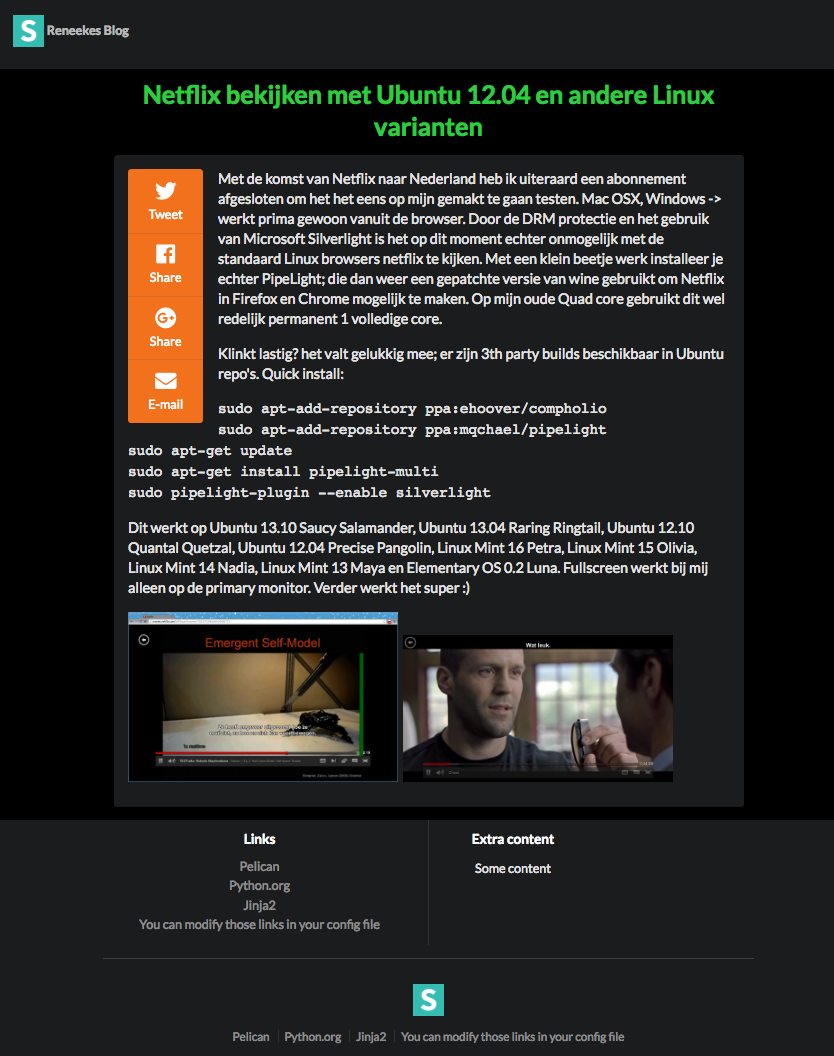
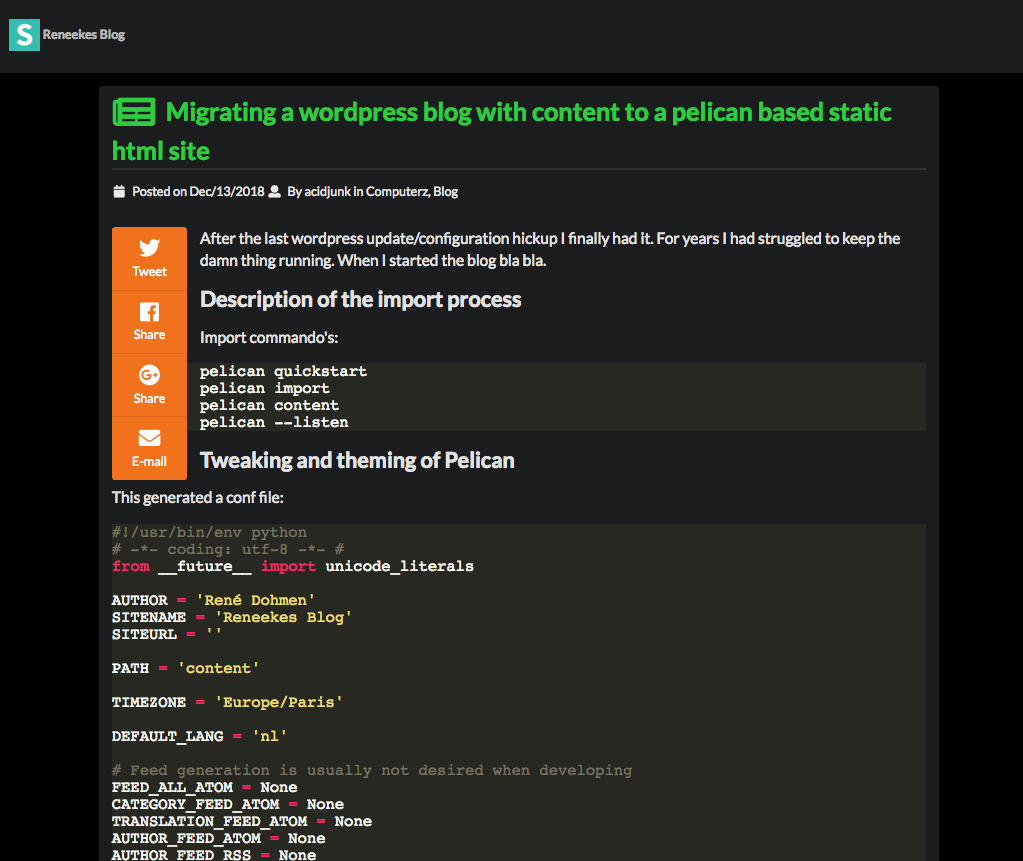
Updates

diff --git a/static/css/pygment.css b/static/css/pygment.css
@@ -1,0 +1,70 @@
+.highlight .hll { background-color: #49483e }
+.highlight  { background: #272822; color: #f8f8f2 }
+.highlight .c { color: #75715e } /* Comment */
+.highlight .err { color: #960050; background-color: #1e0010 } /* Error */
+.highlight .k { color: #66d9ef } /* Keyword */
+.highlight .l { color: #ae81ff } /* Literal */
+.highlight .n { color: #f8f8f2 } /* Name */
+.highlight .o { color: #f92672 } /* Operator */
+.highlight .p { color: #f8f8f2 } /* Punctuation */
+.highlight .ch { color: #75715e } /* Comment.Hashbang */
+.highlight .cm { color: #75715e } /* Comment.Multiline */
+.highlight .cp { color: #75715e } /* Comment.Preproc */
+.highlight .cpf { color: #75715e } /* Comment.PreprocFile */
+.highlight .c1 { color: #75715e } /* Comment.Single */
+.highlight .cs { color: #75715e } /* Comment.Special */
+.highlight .gd { color: #f92672 } /* Generic.Deleted */
+.highlight .ge { font-style: italic } /* Generic.Emph */
+.highlight .gi { color: #a6e22e } /* Generic.Inserted */
+.highlight .gs { font-weight: bold } /* Generic.Strong */
+.highlight .gu { color: #75715e } /* Generic.Subheading */
+.highlight .kc { color: #66d9ef } /* Keyword.Constant */
+.highlight .kd { color: #66d9ef } /* Keyword.Declaration */
+.highlight .kn { color: #f92672 } /* Keyword.Namespace */
+.highlight .kp { color: #66d9ef } /* Keyword.Pseudo */
+.highlight .kr { color: #66d9ef } /* Keyword.Reserved */
+.highlight .kt { color: #66d9ef } /* Keyword.Type */
+.highlight .ld { color: #e6db74 } /* Literal.Date */
+.highlight .m { color: #ae81ff } /* Literal.Number */
+.highlight .s { color: #e6db74 } /* Literal.String */
+.highlight .na { color: #a6e22e } /* Name.Attribute */
+.highlight .nb { color: #f8f8f2 } /* Name.Builtin */
+.highlight .nc { color: #a6e22e } /* Name.Class */
+.highlight .no { color: #66d9ef } /* Name.Constant */
+.highlight .nd { color: #a6e22e } /* Name.Decorator */
+.highlight .ni { color: #f8f8f2 } /* Name.Entity */
+.highlight .ne { color: #a6e22e } /* Name.Exception */
+.highlight .nf { color: #a6e22e } /* Name.Function */
+.highlight .nl { color: #f8f8f2 } /* Name.Label */
+.highlight .nn { color: #f8f8f2 } /* Name.Namespace */
+.highlight .nx { color: #a6e22e } /* Name.Other */
+.highlight .py { color: #f8f8f2 } /* Name.Property */
+.highlight .nt { color: #f92672 } /* Name.Tag */
+.highlight .nv { color: #f8f8f2 } /* Name.Variable */
+.highlight .ow { color: #f92672 } /* Operator.Word */
+.highlight .w { color: #f8f8f2 } /* Text.Whitespace */
+.highlight .mb { color: #ae81ff } /* Literal.Number.Bin */
+.highlight .mf { color: #ae81ff } /* Literal.Number.Float */
+.highlight .mh { color: #ae81ff } /* Literal.Number.Hex */
+.highlight .mi { color: #ae81ff } /* Literal.Number.Integer */
+.highlight .mo { color: #ae81ff } /* Literal.Number.Oct */
+.highlight .sa { color: #e6db74 } /* Literal.String.Affix */
+.highlight .sb { color: #e6db74 } /* Literal.String.Backtick */
+.highlight .sc { color: #e6db74 } /* Literal.String.Char */
+.highlight .dl { color: #e6db74 } /* Literal.String.Delimiter */
+.highlight .sd { color: #e6db74 } /* Literal.String.Doc */
+.highlight .s2 { color: #e6db74 } /* Literal.String.Double */
+.highlight .se { color: #ae81ff } /* Literal.String.Escape */
+.highlight .sh { color: #e6db74 } /* Literal.String.Heredoc */
+.highlight .si { color: #e6db74 } /* Literal.String.Interpol */
+.highlight .sx { color: #e6db74 } /* Literal.String.Other */
+.highlight .sr { color: #e6db74 } /* Literal.String.Regex */
+.highlight .s1 { color: #e6db74 } /* Literal.String.Single */
+.highlight .ss { color: #e6db74 } /* Literal.String.Symbol */
+.highlight .bp { color: #f8f8f2 } /* Name.Builtin.Pseudo */
+.highlight .fm { color: #a6e22e } /* Name.Function.Magic */
+.highlight .vc { color: #f8f8f2 } /* Name.Variable.Class */
+.highlight .vg { color: #f8f8f2 } /* Name.Variable.Global */
+.highlight .vi { color: #f8f8f2 } /* Name.Variable.Instance */
+.highlight .vm { color: #f8f8f2 } /* Name.Variable.Magic */
+.highlight .il { color: #ae81ff } /* Literal.Number.Integer.Long */

diff --git a/templates/article.html b/templates/article.html
@@ -12,29 +12,43 @@
 
 
 {% block content %}
-<div class="ui text fluid container center aligned article-top">
-    <h1 class="ui inverted green header article-huge">{{ article.title }}</h1>
+<div class="ui container">
+    <div class="ui inverted fluid segment">
+        <div class="ui text aligned article-top">
+            <h1 class="ui inverted green dividing header article-huge"><i class="newspaper icon"></i>{{ article.title }}</h1>
+            <i class="ui icon calendar"></i> Posted on {{ article.date.strftime('%b/%d/%Y')}} <i class="ui icon user"></i> By {{article.author}} in {{article.category}}
+            <div class="ui divider hidden"></div>
+            {% if article.subtitle %}
+            <h3 class="ui header">{{ article.subtitle }}</h3>
+            <span class="ui author">by {{ article.author }} on {{ article.date.strftime('%d %B %Y')}}</span>
+            {% endif %}
+        </div>
+            <div class="overlay">
+                <div class="ui orange inverted vertical labeled icon menu">
+                    <a class="item sharer" data-sharer="twitter" data-title="{{ article.title}}"
+                       data-url="{{ SITEURL}}/{{ article.url }}"><i class="twitter icon"></i> Tweet</a>
+                    <a data-sharer="facebook" data-url="{{ SITEURL}}/{{ article.url }}" class="item sharer"><i
+                            class="facebook icon"></i> Share</a>
+                    <a data-sharer="googleplus" data-url="{{ SITEURL}}/{{ article.url }}" class="item sharer"><i
+                            class="google plus icon"></i> Share</a>
+                    <a class="item sharer" data-sharer="email" data-to="" data-title="{{ article.title}}"
+                       data-subject="Checkout this article!" data-url="{{ SITEURL }}/{{ article.url }}"><i
+                            class="mail icon"></i> E-mail</a>
+                </div>
+            </div>
 
-    {% if article.subtitle %}
-    <h3 class="ui header">{{ article.subtitle }}</h3>
-    <span class="ui author">by {{ article.author }} on {{ article.date.strftime('%d %B %Y')}}</span>
-    {% endif %}
-</div>
-<div class="ui text inverted container tall stacked segment">
-    <div class="overlay">
-        <div class="ui orange inverted vertical labeled icon menu">
-            <a class="item sharer" data-sharer="twitter" data-title="{{ article.title}}" data-url="{{ SITEURL}}/{{ article.url }}"><i class="twitter icon"></i> Tweet</a>
-            <a data-sharer="facebook" data-url="{{ SITEURL}}/{{ article.url }}" class="item sharer"><i class="facebook icon"></i> Share</a>
-            <a data-sharer="googleplus" data-url="{{ SITEURL}}/{{ article.url }}" class="item sharer"><i class="google plus icon"></i> Share</a>
-            <a class="item sharer" data-sharer="email" data-to="" data-title="{{ article.title}}" data-subject="Checkout this article!" data-url="{{ SITEURL }}/{{ article.url }}"><i class="mail icon"></i> E-mail</a>
+            <div class="article">
+                {{ article.content }}
+
+                {% if DISQUS_SITENAME %}
+                {% include 'disqus.html' %}
+                {% endif %}
+            </div>
         </div>
     </div>
-    {{ article.content }}
-
-    {% if DISQUS_SITENAME %}
-    {% include 'disqus.html' %}
-    {% endif %}
 </div>
+
+<div class="ui hidden divider"></div>
 {% endblock %}
 
 {% block extra_scripts %}

diff --git a/static/css/custom.css b/static/css/custom.css
@@ -1,7 +1,7 @@
 body {
     background-color: #000000;
-}
 
+}
 .intro {
     background: #b46800;
     margin-bottom: 60px !important;
@@ -9,13 +9,18 @@ body {
     padding: 100px !important;
     color: rgba(255, 255, 255, 0.8);
 }
-
 .overlay {
     float: left;
-    margin: 0em 1em 1em 0em;
+    margin: 0em 1em 0.2em 0em;
 }
 .overlay .menu {
     position: relative;
     left: 0;
     transition: left 0.5s ease;
 }
+
+.article {
+    font-size: 1.23rem;
+    min-height:300px;
+}
+

diff --git a/templates/base.html b/templates/base.html
@@ -32,6 +32,7 @@
 
     <link rel="stylesheet" type="text/css" href="https://cdnjs.cloudflare.com/ajax/libs/semantic-ui/2.4.1/semantic.min.css">
     <link rel="stylesheet" type="text/css" href="{{ SITEURL }}/theme/css/custom.css">
+    <link rel="stylesheet" type="text/css" href="{{ SITEURL }}/theme/css/pygment.css">
 </head>
 <body>
     {% include 'menu.html'%}
